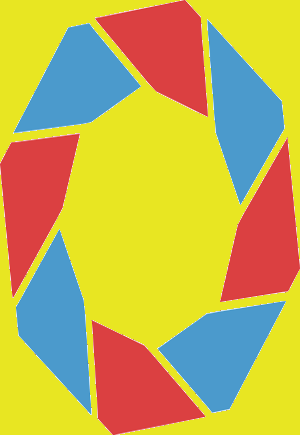
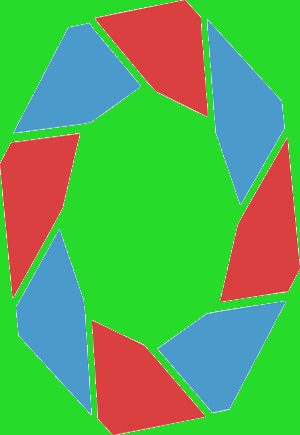
design

diff --git a/static/style.css b/static/style.css
@@ -1,5 +1,5 @@
 .index {
-    background-image: url("/static/images/background.png");
+    background-image: url("/static/images/index_background.png");
     background-repeat: repeat;
 }
 
@@ -12,8 +12,7 @@
 
 .cfc {
     display: inline;
-    position: center;
-    width: 400px;
+    width: 800px;
 }
 
 .memory {
@@ -26,7 +25,7 @@
 
 .memorycontainer {
     width: 1600px;
-    height: 445px;
+    height: 450px;
     display: flex;
     flex-wrap: wrap;
     margin:auto;
@@ -36,4 +35,15 @@
     display:inline;
     border: 2px solid white;
     margin:5px;
+    border-radius: 25px;
+}
+
+.memory_game {
+    background-image: url("/static/images/memory_background.png");
+    background-repeat: no-repeat;
+
+}
+
+img {
+    border-radius: 25px;
 }

diff --git a/templates/memory.html b/templates/memory.html
@@ -8,7 +8,7 @@
     <script src='https://cdnjs.cloudflare.com/ajax/libs/dragula/3.7.2/dragula.min.js' defer></script>
     <script src="{{ url_for('static', filename='memory.js') }}" defer></script>
 </head>
-<body>
+<body class="memory_game">
 <div class="memorycontainer" id="memorycontainer">
     {% for i in range(5) %}
     <div class="card" id={{ i+1 }}><img src="/static/images/cardbackground.png"></div>
